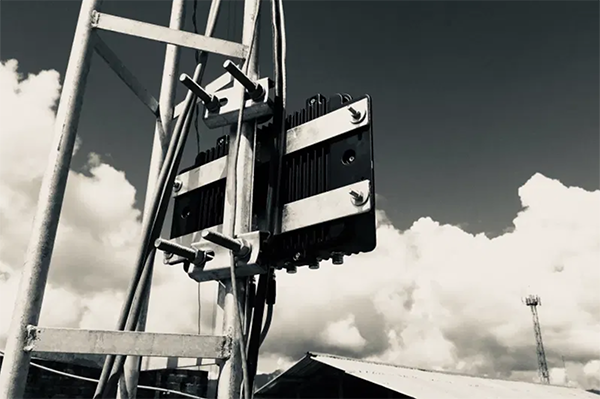
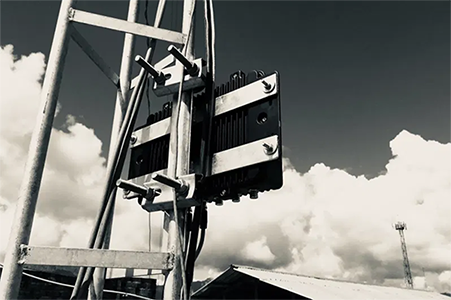
Change images

diff --git a/src/components/UserStories.js b/src/components/UserStories.js
@@ -1,8 +1,7 @@
 import React from "react";
-import Tower from "../../static/img/tower.png";
-import Atalaya from "../../static/img/Atalaya.png";
-import Charity from "../../static/img/Charity.png";
-import Kamol from "../../static/img/Kamol.png";
+import USImageOne from "../../static/img/usi1.jpg";
+import USImageTwo from "../../static/img/usi2.jpg";
+import USImageThree from "../../static/img/usi3.jpg";
 
 const UserStories = class extends React.Component {
   constructor(props) {
@@ -19,7 +18,7 @@ const UserStories = class extends React.Component {
 
             <div className="user-story-lt-rt">
               <div className="img-container-user-story">
-              <a className="img-user-story" href="https://www.youtube.com/watch?v=hNHAz6Km-j0&list=PLKqaoAnDyfgolzgeREuKrvsPJhQLTt_he&index=5&t=668s"><img className="img-user-story" src={Atalaya} /></a>
+              <a className="img-user-story" href="https://www.youtube.com/watch?v=hNHAz6Km-j0&list=PLKqaoAnDyfgolzgeREuKrvsPJhQLTt_he&index=5&t=668s"><img className="img-user-story" src={USImageOne} /></a>
                 </div>
                 <h3 className="user-story-title">Connecting Tribal nations to life-saving resources</h3>
                 <p>MuralNet uses private LTE networks powered by Magma to enable tribal nations to control their internet access.</p>
@@ -28,16 +27,16 @@ const UserStories = class extends React.Component {
 
             <div className="user-story-middle">
               <div className="img-container-user-story">
-              <a className="img-user-story" href="https://github.com/magma/magma"><img className="img-user-story" src={Charity} /></a>
+              <a className="img-user-story" href="https://brck.com/2019/02/moja-lte-extending-affordable-access-further/"><img className="img-user-story" src={USImageTwo} /></a>
                 </div>
                 <h3 className="user-story-title">Deploying Magma to lower network costs</h3>
                 <p>BRCK deploys low cost connectivity in both urban and rural markets in Kenya.</p>
-                <a href="https://github.com/magma/magma" className="text-cta">Learn More</a>
+                <a href="https://brck.com/2019/02/moja-lte-extending-affordable-access-further/" className="text-cta">Learn More</a>
             </div>
 
             <div className="user-story-lt-rt">
               <div className="img-container-user-story">
-              <a className="img-user-story" href="https://www.youtube.com/watch?v=VybSCeTPf88&list=PLKqaoAnDyfgolzgeREuKrvsPJhQLTt_he&index=13&t=917s"><img className="img-user-story" src={Kamol} /></a>
+              <a className="img-user-story" href="https://www.youtube.com/watch?v=VybSCeTPf88&list=PLKqaoAnDyfgolzgeREuKrvsPJhQLTt_he&index=13&t=917s"><img className="img-user-story" src={USImageThree} /></a>
                 </div>
                 <h3 className="user-story-title">Increasing Network Redundancy with Magma Access Gateways</h3>
                 <p>WiConnect Wireless delivers fiber, cable, and wireless-based internet in the southwest region of Wisconsin.</p>

diff --git a/src/components/ImageRight.js b/src/components/ImageRight.js
@@ -1,5 +1,5 @@
 import React from "react";
-import Paperwork from "../../static/img/paperwork.png";
+import Paperwork from "../../static/img/paperwork.jpg";
 
 const ImageRight = class extends React.Component {
   constructor(props) {

diff --git a/src/components/ImageLeft.js b/src/components/ImageLeft.js
@@ -1,5 +1,5 @@
 import React from "react";
-import Tower from "../../static/img/tower.png";
+import Tower from "../../static/img/tower.jpg";
 
 const ImageLeft = class extends React.Component {
   constructor(props) {
